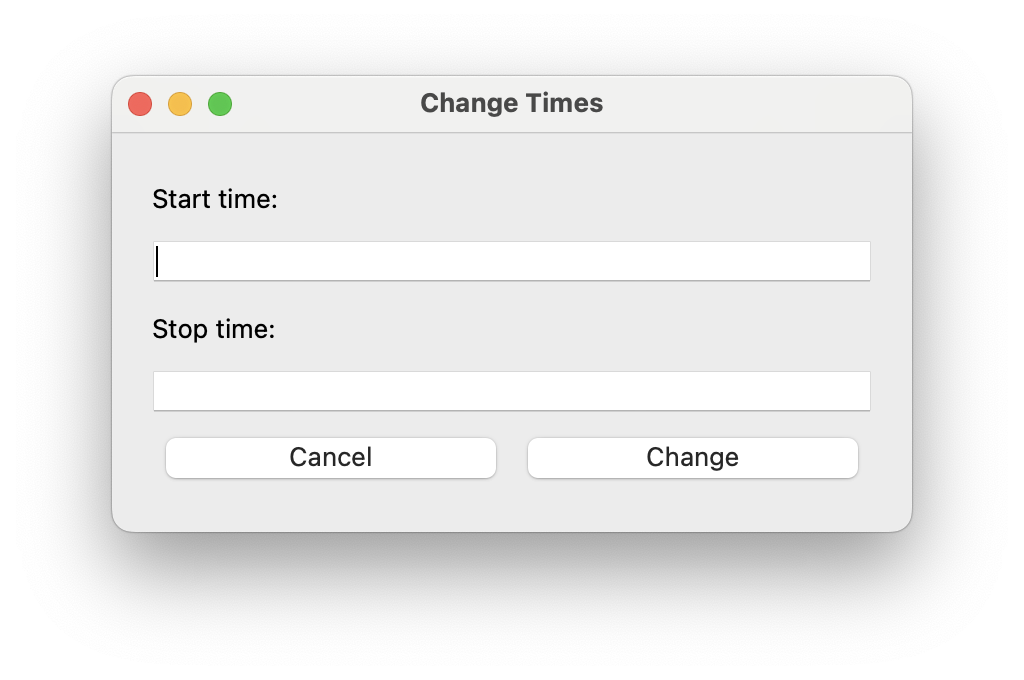
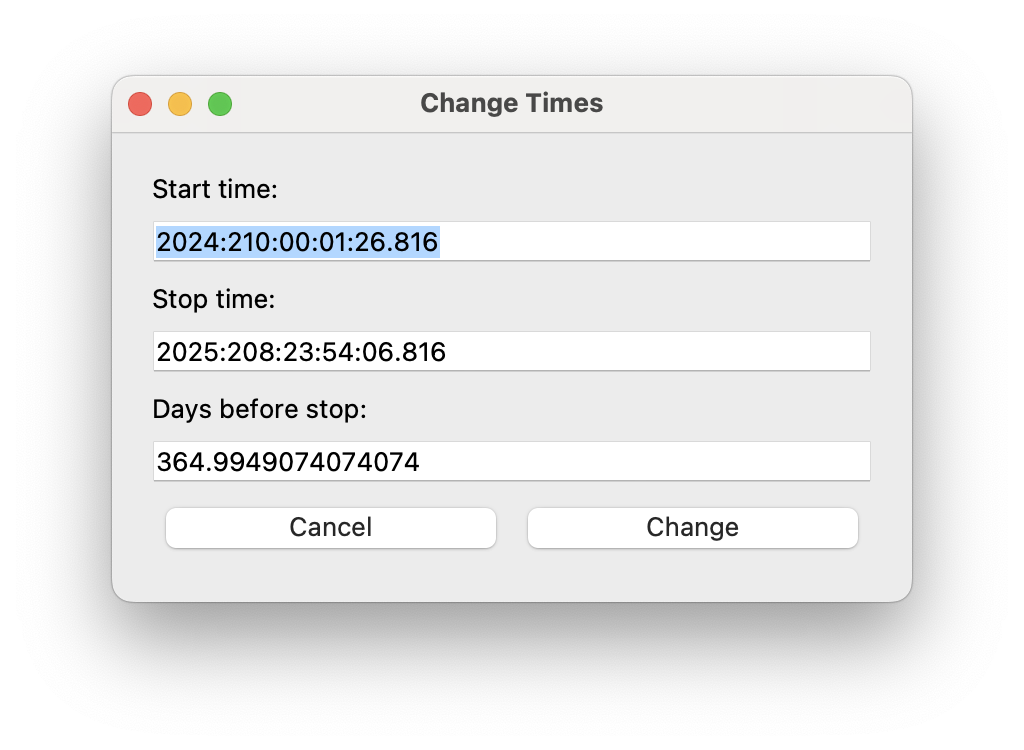
doc updates

diff --git a/docs/gui_fit.rst b/docs/gui_fit.rst
@@ -80,7 +80,8 @@ then a typical calling sequence is:
 Menu Bar Options
 ----------------
 
-The top-level menu bar has a number of options:
+The top-level menu bar has a number of options. The :ref:`utils_menu`
+will be discussed below. 
 
 File Menu
 ^^^^^^^^^
@@ -105,6 +106,8 @@ up in red.
 
 .. image:: model_info.png
 
+.. _model_menu:
+
 Model Menu
 ^^^^^^^^^^
 
@@ -120,6 +123,26 @@ long-term pitch parameters).
 
 .. image:: change_times.png
 
+There are two ways to update the new times. You can either enter a new start
+and/or stop time in the boxes and then press the "Change" button, or you can
+select a new stop time and then set the number of days to go back to to
+calculate the new start time. Regardless of which method you use, the values
+in the boxes will be updated to reflect the new values. 
+
+If you enter an invalid time (e.g. a stop time before or equal to the start 
+time, or an invalid date string) or an invalid number of days (e.g. negative, 
+zero, or not a number), then the values will turn red until a valid value is
+entered:
+
+.. image:: change_times_bad.png
+
+If you enter bad values and then press "Change", a dialog will pop up to 
+remind you that the values are bad, with the messge depending on the reason:
+
+.. image:: change_times_msg1.png
+
+.. image:: change_times_msg2.png
+
 Manipulating Parameters
 -----------------------
 
@@ -134,7 +157,7 @@ will be recalculated and the plots updated. It helps to make the ``xija_gui_fit`
 window as wide as possible to make the sliders longer.
 
 If you want to change the min or max values just type in the box and then hit
-enter. (If you don't hit enter the new value won't apply).
+enter (if you don't hit enter, the new value won't apply).
 
 You can freeze or thaw many parameters at once using the "glob" syntax in the
 "Freeze:" or "Thaw:" entry boxes at the top of the fit window. Examples:
@@ -188,7 +211,7 @@ inputs and outputs at the time marked by the brown line.
 .. image:: annot_line.png
    :width: 75 %
 
-Fit strategy
+Fit Strategy
 ------------
 
 Fitting Xija models is a bit of an art and will it take some time to develop
@@ -215,7 +238,10 @@ skill here. A few rules of thumb and tips:
 
 * Once you have a model that fits reasonably well over the one year period, freeze all
   parameters *except* for ``solarheat_*_dP_*`` and ``solarheat_*_ampl`` parameters. Fit
-  over a 2-3 year time period which ends at the present time.
+  over a 2-3 year time period which ends at the present time. You can do this by either
+  saving the model spec file and then restarting ``xija_gui_fit`` with the new
+  ``--days`` and ``--stop`` values, or by using the "Change Times..." option in the
+  :ref:`model_menu`.
 
 * Next, you might want to refine the ``solarheat_*_P_*`` parameters at this point by
   thawing those ones and freezing the long-term parameters and fitting. Remember that if
@@ -234,20 +260,52 @@ skill here. A few rules of thumb and tips:
 
 * Saving also saves the state of plots and your parameters.
 
-Other ``xija_gui_fit`` features
--------------------------------
+.. _utils_menu:
 
-A number of other optional features are included with ``xija_gui_fit`` which may
-help with interpreting model fits and other analyses. 
+Utilities Menu
+--------------
 
-Histogram Button
-^^^^^^^^^^^^^^^^
+A number of other optional features are included with ``xija_gui_fit`` under the
+Utilities Menu, which may help with interpreting model fits and other analyses. 
+
+Histogram...
+^^^^^^^^^^^^
+
+The "Histogram..." menu item brings up a window which shows two histograms of the
+model performance, similar to a dashboard plot. The left histogram shows the
+distribution of the residuals (data - model) versus the data temperature. Lines
+are drawn for the 1%, 50%, and 99% quantiles. The right histogram shows the 
+binned distribution of the residuals, with lines drawn for the 1%, 50%, and 99% 
+quantiles.
 
 .. image:: histogram.png
-   :width: 75 %
 
-Write Table Button
-^^^^^^^^^^^^^^^^^^
+Though the histogram window can be open while fitting, it will not update
+automatically. To update the histograms, press the "Redraw" button.
+
+Note that there are a number of options that can be set to modify the histograms.
+First, there is the standard Matplotlib toolbox for zooming, panning, saving, etc.
+Second, there are two dialog boxes that can be used to set the limits of the 
+residuals. Finally, there are three checkboxes. The "Mask radzones" and "Mask FMT1"
+checkboxes will exclude data during radzones and FMT1 periods, respectively. In 
+this example, we mask out data from the radzones--note how different the histograms
+look from the unmasked version above:
+
+.. image:: histogram_mask.png
+
+.. note::
+
+    These options may only be useful for certain models, such as the ACIS FP model. 
+
+The "Show limits" checkbox will overplot the thermal limits on the left histogram:
+
+.. image:: histogram_limits.png
+
+Filters...
+^^^^^^^^^^
+
+Write Table...
+^^^^^^^^^^^^^^
 
 It may be useful to take a number of model/data outputs associated with the
 fitting procedure and output to an ASCII table in the 

diff --git a/docs/index.rst b/docs/index.rst
@@ -24,7 +24,7 @@ package.
    :maxdepth: 2
 
    design
-   gui_fit
    tutorial
+   gui_fit
    api
 
